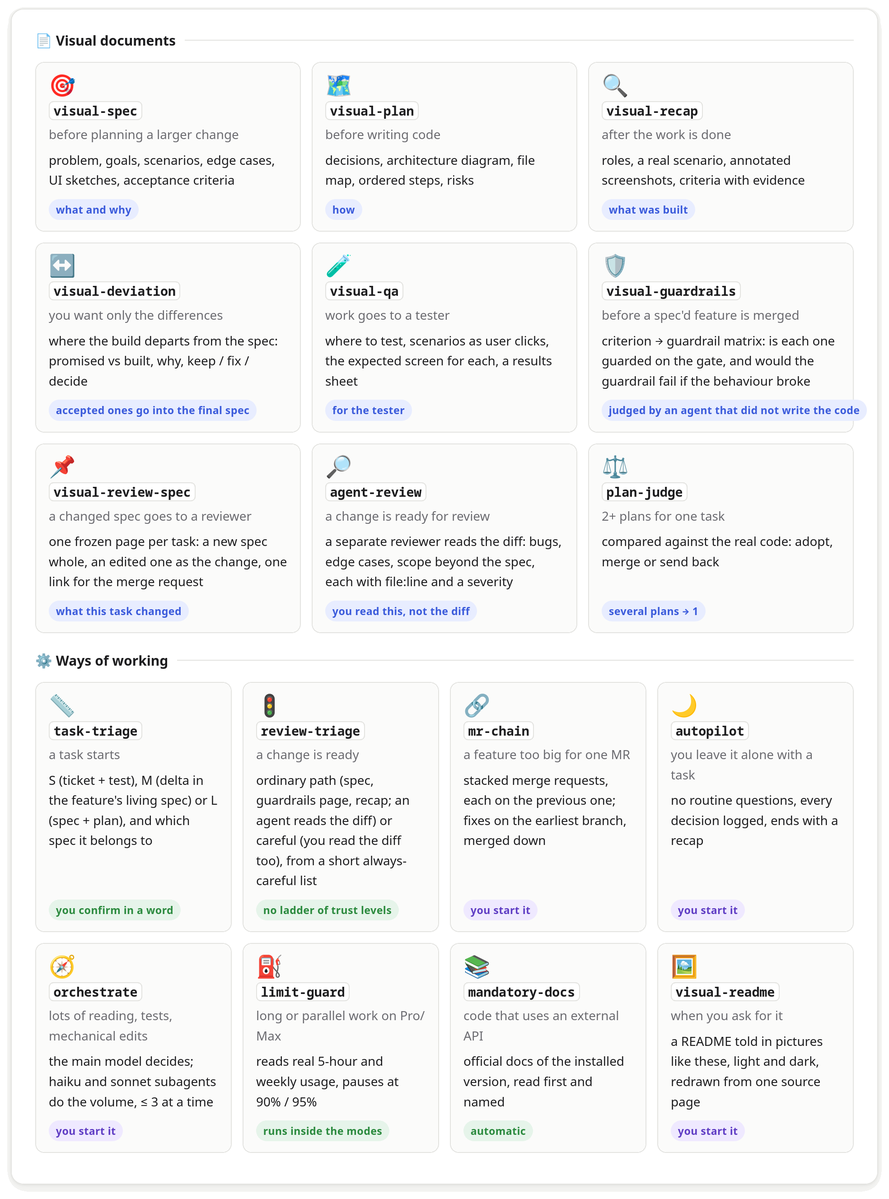
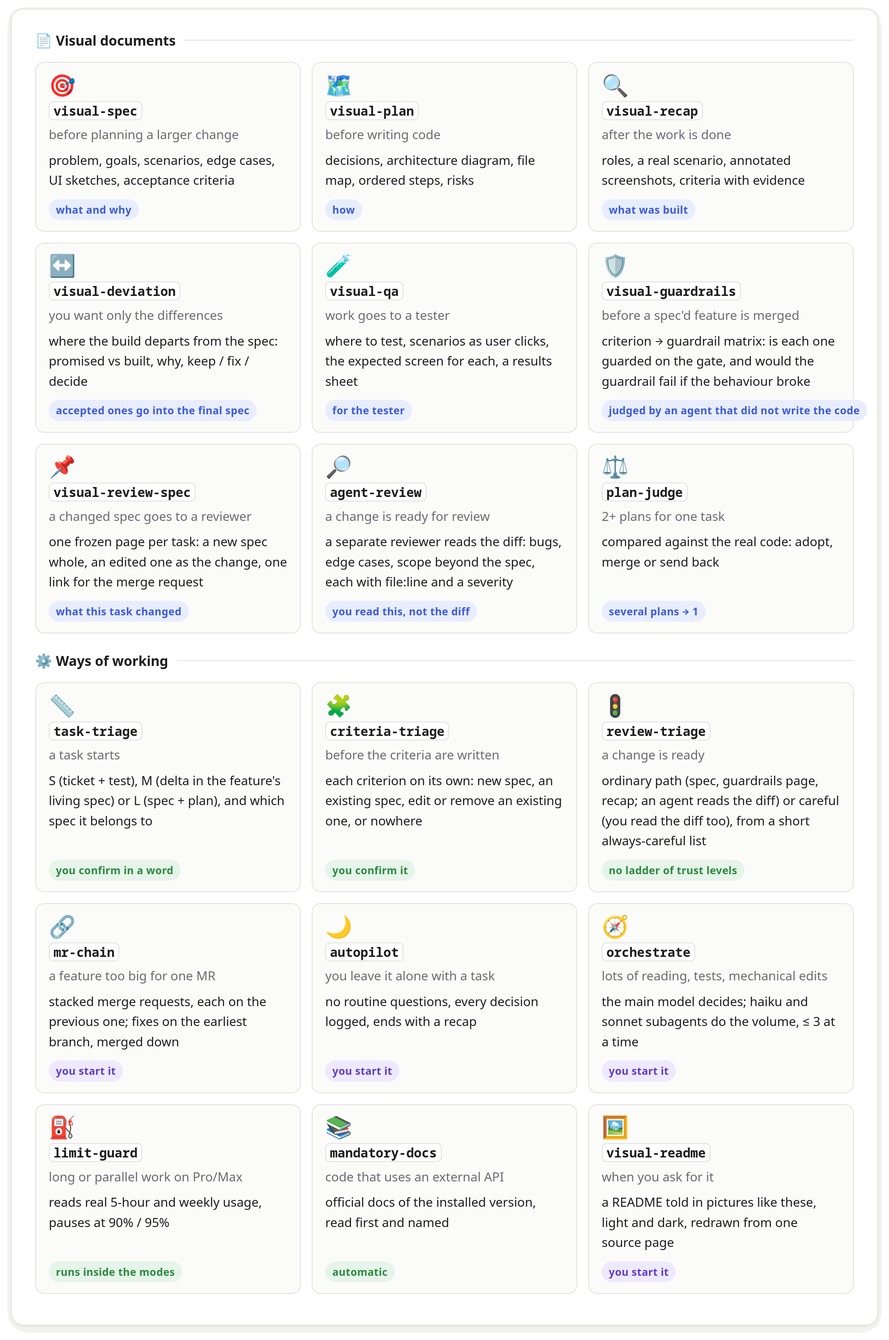
Add criteria-triage: route each acceptance criterion before a spec is written
A proposal is not one destination, yet visual-spec put all its criteria into
one new file. criteria-triage recommends, one criterion at a time: a new spec,
an addition to an existing spec, an edit or removal of an existing criterion,
or nowhere. It also sweeps existing criteria for promises the change breaks.
task-triage points to it on M and L, and visual-spec writes what it settled.

Changed region(s): [[0.031, 0.0309, 0.9609, 0.9574], [0.8989, 0.4324, 0.9299, 0.4633]]

diff --git a/docs/visual/board/readme.html b/docs/visual/board/readme.html
@@ -425,7 +425,7 @@ pre.out { font: 12px/1.5 var(--mono); background: var(--code-bg); border: 1px so
       <ul><li>S: ticket + test</li><li>M: delta in spec</li><li>L: spec + plan</li></ul>
       <div class="foot"><span class="btn ok">✅ one word</span></div></div>
     <div><span class="tag accent">visual-spec</span><h4>Spec</h4><p class="when">one living spec per feature</p>
-      <ul><li>what and why</li><li>criteria with ids</li><li>decisions</li></ul>
+      <ul><li><b>criteria-triage</b>: where each criterion goes</li><li>what and why</li><li>criteria with ids</li><li>decisions</li></ul>
       <div class="foot"><span class="btn ok">✅ Approve</span></div></div>
     <div><span class="tag accent">visual-plan</span><h4>Plan</h4><p class="when">how</p>
       <ul><li>decisions</li><li>diagram</li><li>file map</li><li>steps</li></ul>
@@ -474,8 +474,9 @@ pre.out { font: 12px/1.5 var(--mono); background: var(--code-bg); border: 1px so
     <div><span class="ico">⚖</span><h4><code>plan-judge</code></h4><p class="when">2+ plans for one task</p><p>compared against the real code: adopt, merge or send back</p><div class="foot"><span class="tag accent">several plans → 1</span></div></div>
   </div>
   <div class="group">⚙ Ways of working</div>
-  <div class="cards" style="--cols:4">
+  <div class="cards" style="--cols:3">
     <div><span class="ico">📏</span><h4><code>task-triage</code></h4><p class="when">a task starts</p><p>S (ticket + test), M (delta in the feature's living spec) or L (spec + plan), and which spec it belongs to</p><div class="foot"><span class="tag ok">you confirm in a word</span></div></div>
+    <div><span class="ico">🧩</span><h4><code>criteria-triage</code></h4><p class="when">before the criteria are written</p><p>each criterion on its own: new spec, an existing spec, edit or remove an existing one, or nowhere</p><div class="foot"><span class="tag ok">you confirm it</span></div></div>
     <div><span class="ico">🚦</span><h4><code>review-triage</code></h4><p class="when">a change is ready</p><p>ordinary path (spec, guardrails page, recap; an agent reads the diff) or careful (you read the diff too), from a short always-careful list</p><div class="foot"><span class="tag ok">no ladder of trust levels</span></div></div>
     <div><span class="ico">🔗</span><h4><code>mr-chain</code></h4><p class="when">a feature too big for one MR</p><p>stacked merge requests, each on the previous one; fixes on the earliest branch, merged down</p><div class="foot"><span class="tag note">you start it</span></div></div>
     <div><span class="ico">🌙</span><h4><code>autopilot</code></h4><p class="when">you leave it alone with a task</p><p>no routine questions, every decision logged, ends with a recap</p><div class="foot"><span class="tag note">you start it</span></div></div>
@@ -492,6 +493,7 @@ pre.out { font: 12px/1.5 var(--mono); background: var(--code-bg); border: 1px so
   <div class="pick">
     <div class="if">A typo, a one-line fix, a question</div><div class="then muted">just done <small>+ status line</small></div>
     <div class="if">A task starts and its size is not obvious</div><div class="then">task-triage <small>S, M or L</small></div>
+    <div class="if">Which spec does each criterion belong in?</div><div class="then">criteria-triage <small>new, existing or nowhere</small></div>
     <div class="if">A feature whose details are still open</div><div class="then">visual-spec <small>what, why</small></div>
     <div class="if">Requirements clear, no code yet</div><div class="then">visual-plan <small>how</small></div>
     <div class="if">Claude and Codex each wrote a plan</div><div class="then">plan-judge <small>pick one</small></div>

diff --git a/tests/test_skills.py b/tests/test_skills.py
@@ -33,7 +33,7 @@ class Skills(unittest.TestCase):
                 self.assertGreater(len(fields.get("description", "")), 80)
 
     def test_the_method_skills_exist(self):
-        for name in ("task-triage", "review-triage", "agent-review", "visual-guardrails", "visual-spec"):
+        for name in ("task-triage", "criteria-triage", "review-triage", "agent-review", "visual-guardrails", "visual-spec"):
             self.assertTrue((SKILLS / name / "SKILL.md").exists(), name)
 
     def test_session_context_names_every_page_kind_and_the_method_skills(self):
@@ -41,10 +41,10 @@ class Skills(unittest.TestCase):
         self.assertIn("docs/visual/<spec|plan|recap|deviation|qa|guardrails|review|review-spec>/", hot)
         for kind in ("plan", "recap", "deviation", "qa", "guardrails", "review", "review-spec"):
             self.assertIn(f"docs/visual/{kind}/", hot)
-        for skill in ("task-triage", "review-triage", "agent-review", "visual-guardrails", "visual-review-spec"):
+        for skill in ("task-triage", "criteria-triage", "review-triage", "agent-review", "visual-guardrails", "visual-review-spec"):
             self.assertIn(f"/suwagent:{skill}", hot)
         method = (PLUGIN / "hooks" / "context" / "method.md").read_text(encoding="utf-8")
-        for phrase in ("living spec per feature", "one-way", "characterization tests", "always-careful", "docs/adr/", "visual-review-spec"):
+        for phrase in ("living spec per feature", "criteria-triage", "one-way", "characterization tests", "always-careful", "docs/adr/", "visual-review-spec"):
             self.assertIn(phrase, method)
 
     def test_the_hook_names_the_method_file_by_its_absolute_path(self):

diff --git a/README.md b/README.md
@@ -30,16 +30,18 @@ Requirements: `git` and `python3` (standard library only).
 
 <picture>
   <source media="(prefers-color-scheme: dark)" srcset="docs/visual/board/img/readme/flow-dark.png">
-  <img alt="One larger task: Size with task-triage (S: ticket and test, M: delta in the spec, L: spec and plan; you confirm in a word) → Spec (one living spec per feature: what and why, criteria with ids, decisions, contract; approve) → Plan (how, approve) → Build (only after approval, docs first, optionally autopilot or orchestrate) → Recap (what was built, criteria checked, the guardrails page: does each criterion have a check that fails), or visual-deviation (only what differs) → Review (two paths: the reviewer reads the review-spec page and the guardrails page, agent-review reads the diff; on the careful path the reviewer reads it too) → Test with visual-qa. On every page: comment, answer questions, Approve or Request changes, Copy feedback for the agent. In git: plan, recap, deviation, QA, guardrails, review and review-spec pages in .gitignore, only the final spec committed. Answers end with a status line: 🟢 done, 🟡 pending, 🔴 waiting for you." src="docs/visual/board/img/readme/flow-light.png" width="100%">
+  <img alt="One larger task: Size with task-triage (S: ticket and test, M: delta in the spec, L: spec and plan; you confirm in a word) → Spec (criteria-triage routes each criterion; one living spec per feature: what and why, criteria with ids, decisions, contract; approve) → Plan (how, approve) → Build (only after approval, docs first, optionally autopilot or orchestrate) → Recap (what was built, criteria checked, the guardrails page: does each criterion have a check that fails), or visual-deviation (only what differs) → Review (two paths: the reviewer reads the review-spec page and the guardrails page, agent-review reads the diff; on the careful path the reviewer reads it too) → Test with visual-qa. On every page: comment, answer questions, Approve or Request changes, Copy feedback for the agent. In git: plan, recap, deviation, QA, guardrails, review and review-spec pages in .gitignore, only the final spec committed. Answers end with a status line: 🟢 done, 🟡 pending, 🔴 waiting for you." src="docs/visual/board/img/readme/flow-light.png" width="100%">
 </picture>
 
 You don't have to remember any command: the agent offers each page in one line when a task is big
 enough. Every page is a self-contained HTML file in `docs/visual/<spec|plan|recap|deviation|qa|guardrails|review|review-spec>/`, and by
 default also a private claude.ai artifact you can open and comment on from any device.
 
-Three skills carry the method around the pages. `/suwagent:task-triage` sizes a task before anything
+Four skills carry the method around the pages. `/suwagent:task-triage` sizes a task before anything
 else (S: a ticket and a test, M: a delta in the feature's living spec, L: a spec and a plan) and names
-the spec it belongs to. `/suwagent:review-triage` tells a reviewer which of two paths a finished change
+the spec it belongs to. `/suwagent:criteria-triage` then routes each acceptance criterion on its own
+(a new spec, an existing spec, an edit or removal of an existing criterion, or nowhere), so a feature's
+criteria don't all land in one new file by default. `/suwagent:review-triage` tells a reviewer which of two paths a finished change
 takes: ordinary (read the spec, the guardrails page and the recap; a separate agent reads the diff) or
 careful (read the diff too), decided by a short always-careful list, not by a ladder of trust levels.
 `/suwagent:visual-review-spec` is what a teammate gets instead of a link to the living spec, which also
@@ -155,12 +157,12 @@ This is what one looks like — [the recap of this repository](docs/visual/recap
 
 <picture>
   <source media="(prefers-color-scheme: dark)" srcset="docs/visual/board/img/readme/skills-dark.png">
-  <img alt="Visual documents: visual-spec (what and why), visual-plan (how), visual-recap (what was built), visual-deviation (only the differences from the spec), visual-qa (a test guide for the tester), visual-guardrails (criterion → guardrail matrix, judged by an agent that did not write the code), visual-review-spec (one frozen page per task: what it did to the living specs, the link for the merge request), agent-review (a separate reviewer reads the diff; you read this page, not the diff), plan-judge (several plans into one). Ways of working: task-triage (S, M or L, you confirm in a word), review-triage (ordinary or careful path, no ladder of trust levels), mr-chain (you start it; stacked merge requests), autopilot (you start it), orchestrate (you start it; the main model decides, cheaper subagents do the volume), limit-guard (pauses near the plan's limits), mandatory-docs (automatic; official docs of the installed version), visual-readme (you start it)." src="docs/visual/board/img/readme/skills-light.png" width="100%">
+  <img alt="Visual documents: visual-spec (what and why), visual-plan (how), visual-recap (what was built), visual-deviation (only the differences from the spec), visual-qa (a test guide for the tester), visual-guardrails (criterion → guardrail matrix, judged by an agent that did not write the code), visual-review-spec (one frozen page per task: what it did to the living specs, the link for the merge request), agent-review (a separate reviewer reads the diff; you read this page, not the diff), plan-judge (several plans into one). Ways of working: task-triage (S, M or L, you confirm in a word), criteria-triage (each criterion: new spec, an existing spec, edit or remove an existing one, or nowhere), review-triage (ordinary or careful path, no ladder of trust levels), mr-chain (you start it; stacked merge requests), autopilot (you start it), orchestrate (you start it; the main model decides, cheaper subagents do the volume), limit-guard (pauses near the plan's limits), mandatory-docs (automatic; official docs of the installed version), visual-readme (you start it)." src="docs/visual/board/img/readme/skills-light.png" width="100%">
 </picture>
 
 <picture>
   <source media="(prefers-color-scheme: dark)" srcset="docs/visual/board/img/readme/choose-dark.png">
-  <img alt="Which one, when: a typo or question → just done; a task starts and its size is not obvious → task-triage; details still open → visual-spec; requirements clear → visual-plan; two plans → plan-judge; 'do it without me' → autopilot; mostly reading, tests, mechanical edits → orchestrate; a long run on Pro/Max → limit-guard; work finished → visual-recap; only what differs from the spec → visual-deviation; is the spec really guarded on the gate → visual-guardrails; a spec changed and it goes to a reviewer → visual-review-spec; a change is ready for review → review-triage, then agent-review; a feature too big for one merge request → mr-chain; the README is a wall of text → visual-readme." src="docs/visual/board/img/readme/choose-light.png" width="100%">
+  <img alt="Which one, when: a typo or question → just done; a task starts and its size is not obvious → task-triage; which spec each criterion belongs in → criteria-triage; details still open → visual-spec; requirements clear → visual-plan; two plans → plan-judge; 'do it without me' → autopilot; mostly reading, tests, mechanical edits → orchestrate; a long run on Pro/Max → limit-guard; work finished → visual-recap; only what differs from the spec → visual-deviation; is the spec really guarded on the gate → visual-guardrails; a spec changed and it goes to a reviewer → visual-review-spec; a change is ready for review → review-triage, then agent-review; a feature too big for one merge request → mr-chain; the README is a wall of text → visual-readme." src="docs/visual/board/img/readme/choose-light.png" width="100%">
 </picture>
 
 All skills are invoked as `/suwagent:<name>`; `/suwagent:efficient-frontier` is an alias of

diff --git a/plugins/suwagent/skills/criteria-triage/SKILL.md b/plugins/suwagent/skills/criteria-triage/SKILL.md
@@ -1,0 +1,89 @@
+---
+name: criteria-triage
+description: Decide where each acceptance criterion of a proposed feature or change belongs, one criterion at a time, before any spec is written. Reads the proposal or the draft criteria and the acceptance criteria of all living specs in docs/visual/spec/, then recommends for each one: a new spec, an addition to an existing spec, an edit of an existing criterion, a removal of an existing criterion, or nowhere. It also sweeps the existing criteria for promises the change would break. The user corrects the routing in chat; nothing is written. Use after task-triage and before visual-spec writes the criteria, so they don't all land in one new file by default.
+when_to_use: A proposed feature or change has criteria, or is about to get them, and they may belong in more than one place; visual-spec is about to write criteria; or the user says "criteria-triage", "gdzie te AC", "gdzie to umieścić", "do której specki", "nowy spec czy istniejący", "czy te AC mają sens".
+argument-hint: "[the feature or change in plain words, draft criteria, or a draft spec page]"
+---
+
+# Criteria triage
+
+One proposal is not one destination. Some of its criteria describe a new behaviour, some extend a
+feature that already has a spec, some change a promise made earlier, and some aren't criteria at
+all. This skill routes them **one by one**, so the feature's spec doesn't collect criteria that
+belong elsewhere and old promises aren't left contradicting new ones.
+
+| Verdict | When | What happens to the spec |
+| :- | :- | :- |
+| **New spec** | a behaviour no existing feature owns | goes into the named new spec |
+| **Add** | the behaviour belongs to a feature that already has a spec | a new criterion in that spec |
+| **Edit** | an existing criterion stays the same promise, but its details change | reworded in place, keeping its id |
+| **Remove** | the change ends an existing promise | dropped from its spec; the id is never reused |
+| **Nowhere** | not a criterion, or already promised | written in no spec, and the reason is named |
+
+## What to read
+
+Read-only. Change nothing.
+
+1. The proposal: $ARGUMENTS (if empty, the feature or draft discussed in the conversation). When
+   it has no draft criteria yet, write the candidates yourself: each an observable result, stated
+   without an id.
+2. Every living spec's acceptance criteria: `docs/visual/spec/*.html` (or the folder the project's
+   AGENTS.md names). Read all of them, not only the spec the feature's name suggests: a new feature
+   often breaks a promise made by a feature with another name.
+3. The code, only where a spec doesn't settle who owns a behaviour. A project with `criteria.json`
+   lists each criterion's guardrails with `vdoc.py criteria`; use it to name the guardrails that
+   an edit or a removal affects.
+
+## How to route
+
+**Each candidate.** Take the first answer that fits:
+
+1. **Is it a criterion at all?** It must be observable and checkable, and must survive a refactor
+   that changes no behaviour. A chosen library or an internal structure fails this: nowhere.
+2. **Is it already promised?** The same promise in an existing criterion: nowhere, naming that id.
+3. **Does it change an existing promise?** The same promise with other details: edit. A different
+   promise in the old one's place: remove the old one and route the new one as a new criterion, so
+   a guardrail of the old id can't silently guard the new text.
+4. **Who owns the behaviour?** Ask: *if the proposed feature were removed later, would this
+   criterion go with it?* Yes: new spec. No: add it to the spec of the feature that owns it. Judge
+   by the behaviour, never by the task that brought it up.
+
+A new spec is one behaviour with one owner. When the candidates of "new spec" describe two
+behaviours that could change or disappear independently, propose two specs.
+
+**The sweep over existing criteria.** Candidates only show what the proposal says out loud. For
+every existing criterion the change touches, ask: *is this still true once the proposal is built?*
+No: an edit or a removal, even when no candidate mentioned it. Report what you find here as its
+own rows, because this is what a draft spec never surfaces.
+
+**Another repository's behaviour** is not routed here: a spec holds only its own repository's
+criteria, and boundaries are contracts. Name it as a contract change for the owner.
+
+## Answer
+
+In chat, short, in the user's language:
+
+- **Summary**: one line per destination, such as "1 new spec, 2 existing specs edited, 1 skipped".
+- **The routing**, one table: the criterion (proposed text, or the id and its new wording), the
+  verdict, the destination (spec title and path, or the name for a new spec), and a reason of a few
+  words. Group the rows by destination, sweep findings included. An edit shows the old and new
+  wording; a removal names the guardrails it leaves behind, when the project lists them.
+- **Unsure**: a row you can't settle carries your recommendation and the question that decides it.
+- **Next step**: `/suwagent:visual-spec` with this routing. When every row is "nowhere", no spec
+  work is needed: say so, and say the task is then size S (a regression test without an id is
+  still fine).
+
+Then wait for the user's word: "ok", or corrections to single rows. Take a correction without
+arguing. Nothing is written and no id is assigned here: `vdoc.py ids` numbers new criteria when
+`/suwagent:visual-spec` writes them. Under `/suwagent:autopilot`, take the recommended routing and
+log it as a decision.
+
+## Edge cases
+
+- **No specs in the repository yet**: there is nothing to add to, edit or remove, but nowhere and
+  the split into separate behaviours still apply.
+- **Size S, nothing observable changes**: there is nothing to route; don't run.
+- **A criterion moves to another feature's spec**: a removal plus a new criterion, so that the
+  guardrails get renamed to the new id on purpose.
+- **Too many specs to read in one go**: delegate reading the criteria to a subagent, and make every
+  routing decision yourself.

diff --git a/plugins/suwagent/hooks/context/visual-workflow.md b/plugins/suwagent/hooks/context/visual-workflow.md
@@ -1,6 +1,6 @@
 This user reviews agent work through visual HTML pages instead of long chat text: /suwagent:visual-spec (what and why), /suwagent:visual-plan (how), /suwagent:visual-recap (what was built and how it works), /suwagent:visual-deviation (only where the build departs from the spec, with a keep / fix / decide recommendation), /suwagent:visual-qa (a test guide for a tester, for the environment the user names; ask for it if unknown), /suwagent:visual-guardrails (is every acceptance criterion guarded on the gate by a check that would fail if the behaviour broke; a test that touches the path without asserting the result is not a guardrail), /suwagent:visual-review-spec (what one task did to the living specs, frozen for its reviewer: new specs whole, edited ones as the change) and /suwagent:agent-review (a diff-level review by a separate reviewer, as a page). Pages live in docs/visual/<spec|plan|recap|deviation|qa|guardrails|review|review-spec>/ and are also published as claude.ai artifacts, recorded in docs/visual/<kind>/claude-artifacts.md.
 
-The user's method, spec-driven with guardrails, is in hooks/context/method.md of the plugin (the hook prints its absolute path just before this text): triage before anything (/suwagent:task-triage: S/M/L), one living spec per feature with deltas edited in place, criteria as guardrails with ids and a one-way gate rule, contracts on boundaries between repositories, the gate as the only proof, two review paths with an always-careful list, and in brownfield characterization tests and the gate before any spec. Read that file at the start of any task bigger than a one-liner and before writing a spec, plan, guardrails page or review; do not guess the method from this summary.
+The user's method, spec-driven with guardrails, is in hooks/context/method.md of the plugin (the hook prints its absolute path just before this text): triage before anything (/suwagent:task-triage: S/M/L), then on M and L /suwagent:criteria-triage (where each acceptance criterion goes: new spec, existing spec, edit or remove an existing one, or nowhere), one living spec per feature with deltas edited in place, criteria as guardrails with ids and a one-way gate rule, contracts on boundaries between repositories, the gate as the only proof, two review paths with an always-careful list, and in brownfield characterization tests and the gate before any spec. Read that file at the start of any task bigger than a one-liner and before writing a spec, plan, guardrails page or review; do not guess the method from this summary.
 
 For larger changes (a new feature, several files, a change of behaviour, an API or data shape, a choice between approaches): offer in one line a visual spec (or a delta) before planning unless one is approved; a visual plan before code, and implement only after approval; a visual recap after verified work, or visual-deviation when only the differences matter; visual-guardrails before a spec'd feature is merged (run it when the user asks whether criteria are covered or a test really guards); /suwagent:visual-review-spec when a change that added or edited a spec goes to a reviewer (its link goes into the merge request, not the living spec's), /suwagent:review-triage and, on the ordinary path, /suwagent:agent-review when a change is ready for review; visual-qa when work goes to a tester or the client's acceptance. When the user declines one for a task, don't offer it again for that task. Small or obvious changes need none of these.
 

diff --git a/plugins/suwagent/hooks/context/method.md b/plugins/suwagent/hooks/context/method.md
@@ -8,7 +8,7 @@ one-liner, and before writing a spec, a plan, a guardrails page or a review.
 /suwagent:task-triage proposes S (no behaviour visible to a user or an API caller changes: a ticket and a test, no spec), M (an existing feature's behaviour changes: a delta in its living spec) or L (a new feature or a contract change: spec and plan); the user confirms in a word. The threshold is one question: does it change behaviour someone can see, or a contract? The number of files does not decide.
 
 ## 2. One living spec per feature
-One living spec per feature (one behaviour, one owner), never per task or repository. A task edits it in place, no changelog; before the merge it is rewritten as if the accepted deviations had always been there, and that final spec is committed with the work. What and why, never how. Decisions are one sentence in the spec, or a file in docs/adr/ only when they span features. A spec never lists its consumers.
+One living spec per feature (one behaviour, one owner), never per task or repository, so one task can touch several specs: on M and L, /suwagent:criteria-triage routes each criterion before the spec is written (new spec, add to an existing spec, edit or remove an existing criterion, or nowhere) and the user confirms. A task edits a spec in place, no changelog; before the merge it is rewritten as if the accepted deviations had always been there, and that final spec is committed with the work. What and why, never how. Decisions are one sentence in the spec, or a file in docs/adr/ only when they span features. A spec never lists its consumers.
 
 ## 3. Criteria as guardrails
 Acceptance criteria carry ids (AC-<feature>-<n>) and live outside the spec only as guardrails naming the id: a test, a lint rule, a type check. The gate's rule is one-way: every criterion needs a guardrail and every id in a guardrail must exist in this repository's spec; a test without an id is fine (regression, bug, adaptation to another repository's contract). An unprovable criterion is reworded or dropped.

diff --git a/plugins/suwagent/skills/task-triage/SKILL.md b/plugins/suwagent/skills/task-triage/SKILL.md
@@ -42,8 +42,9 @@ In chat, short, in the user's language:
 - **Tier** with one sentence of reason, tied to the threshold question.
 - **Spec**: the living spec this belongs to (title and path), or "new feature", or "none (S)".
 - **Criteria**: the ids the change may add, change or drop, when the spec exists.
-- **Next step**: for S the ticket and the test to touch; for M the delta to write in the spec;
-  for L `/suwagent:visual-spec`. When several tasks are pasted, one row each in a table.
+- **Next step**: for S the ticket and the test to touch; for M and L `/suwagent:criteria-triage`,
+  which routes each criterion, then the delta or `/suwagent:visual-spec`. When several tasks are
+  pasted, one row each in a table.
 
 Then wait for the user's word. "ok", "S", "M", "L" or a correction. Do not start the next
 step on your own. When the user changes the tier, take their tier without arguing; say in
@@ -52,7 +53,7 @@ one line what that means for the next step.
 ## Edge cases
 
 - The task touches two features: name both specs; the delta goes into each, or the task
-  is split. Say which you recommend.
+  is split. Say which you recommend. Which criterion goes where is `/suwagent:criteria-triage`.
 - No specs in the repository yet: tier by the threshold question alone, and say that an M
   becomes L (the first spec of the feature).
 - A "small" change to code with no characterization tests in a brownfield project: still S

diff --git a/plugins/suwagent/skills/visual-spec/SKILL.md b/plugins/suwagent/skills/visual-spec/SKILL.md
@@ -18,6 +18,11 @@ exists, a task is a **delta** in it: criteria added, changed or dropped, edited 
 no changelog and no "changed from" notes; the chat message names the delta, git keeps the
 history. A new spec is written only for a new feature (`/suwagent:task-triage` tells which).
 
+One task can do both: `/suwagent:criteria-triage` routes each criterion to a new spec, to an
+existing spec, or nowhere, and finds existing criteria to edit or remove. Unless this task already
+has a confirmed routing, run it before writing any criteria, then write exactly what it settled: a
+page per new spec, a delta in each existing spec, and nothing for what it sent nowhere.
+
 Before writing, read these two files. They hold the rules shared by all three visual skills
 and the HTML blocks:
 
@@ -34,8 +39,8 @@ What to specify: $ARGUMENTS (if empty, use the change being discussed in the con
 
 ## Rules
 
-- **Read-only.** Make no source changes while specifying. The only file you write is the
-  spec page.
+- **Read-only.** Make no source changes while specifying. The only files you write are the
+  spec pages the routing names.
 - **Research first.** Read the code involved so the "current state" is real: today's
   behaviour, screens, data and limits, with paths. Delegate wide exploration to a subagent
   if it's large.
